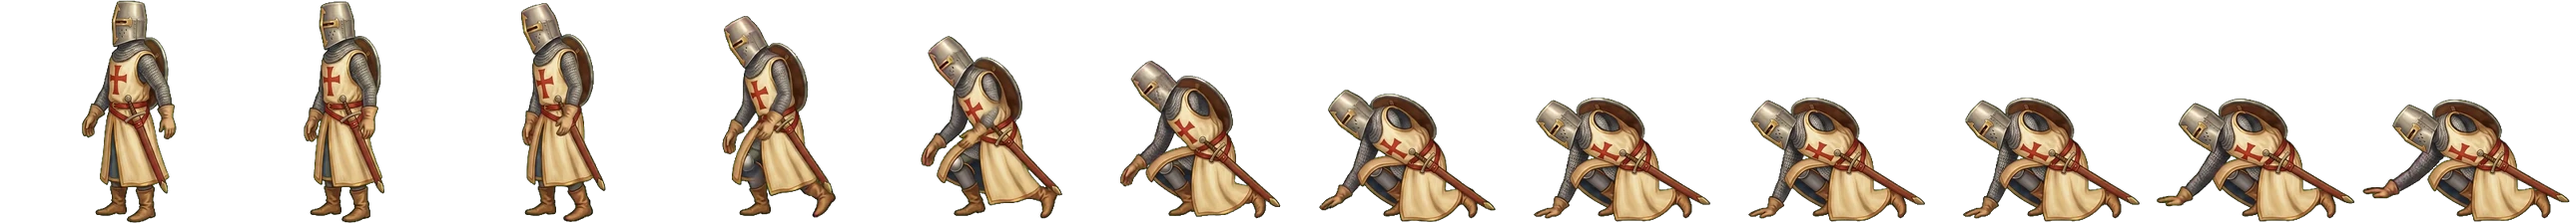
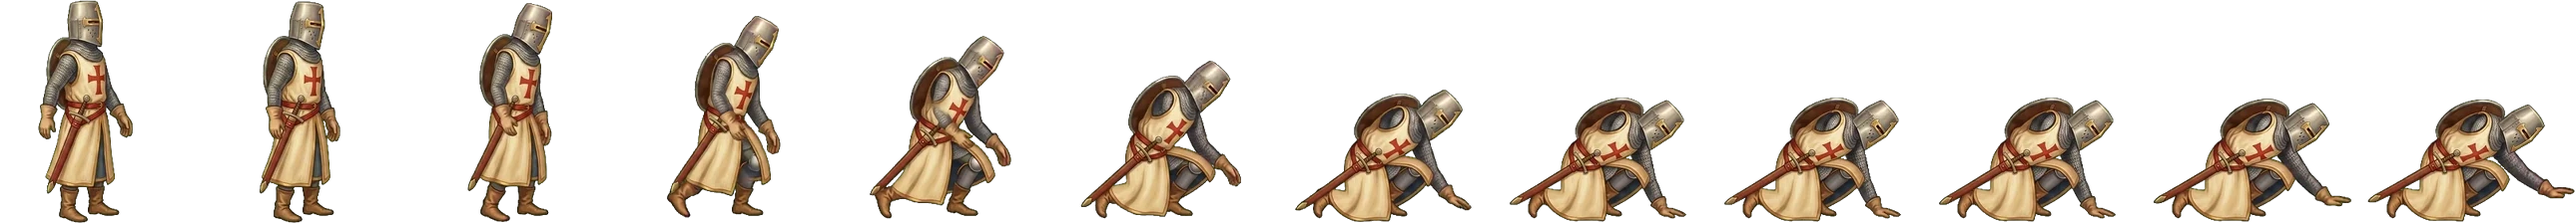
Mirror the knight's sheets: the art faced left
Every knight sheet came out of the base frame facing left (visor left,
shield at the right), while the runtime, like every other character's art,
assumes sheets face right and mirrors them to face left. So the knight
faced away from his direction of travel in both directions, which is what
read as a moonwalk; his feet were never the problem. tools/art/
mirror_sheets.py flips each cell of a character's sheets and moves the
origin; the knight's eight sheets are mirrored, the walk is recut in its
natural order (the earlier reverse cut was based on the wrong facing), and
the mirrored base frame is kept as knight/reference.png so future clips
start out facing right. The conventions say to judge stride direction only
on right-facing art.

Claude-Session: https://claude.ai/code/session_01WhnNSNbHDHPivHiJzsvQ8w

diff --git a/tools/art/mirror_sheets.py b/tools/art/mirror_sheets.py
@@ -1,0 +1,39 @@
+#!/usr/bin/env python3
+"""Mirror every animation sheet of a character horizontally, cell by cell.
+
+    python3 tools/art/mirror_sheets.py game/assets/characters/knight
+
+For art that came out facing left: the runtime assumes every sheet faces right and mirrors
+it for the other direction. Flips each frame cell of anim/*.webp (or .png) in place and
+moves the origin's x in the matching .json to the mirrored foot position.
+"""
+import json
+import pathlib
+import sys
+
+from PIL import Image, ImageOps
+
+
+def mirror(folder: pathlib.Path) -> None:
+    for meta_path in sorted((folder / "anim").glob("*.json")):
+        meta = json.loads(meta_path.read_text())
+        sheet_path = next((p for p in (meta_path.with_suffix(".webp"), meta_path.with_suffix(".png")) if p.exists()), None)
+        if sheet_path is None:
+            continue
+        sheet = Image.open(sheet_path).convert("RGBA")
+        width, height, columns = meta["width"], meta["height"], meta["columns"]
+        for index in range(meta["frames"]):
+            row, column = divmod(index, columns)
+            box = (column * width, row * height, (column + 1) * width, (row + 1) * height)
+            sheet.paste(ImageOps.mirror(sheet.crop(box)), box)
+        if sheet_path.suffix == ".webp":
+            sheet.save(sheet_path, "WEBP", quality=90, method=6)
+        else:
+            sheet.save(sheet_path, optimize=True)
+        meta["origin"] = [round(width - meta["origin"][0], 2), meta["origin"][1]]
+        meta_path.write_text(json.dumps(meta, indent=1))
+        print(f"mirrored {sheet_path.name}: origin x -> {meta['origin'][0]}")
+
+
+if __name__ == "__main__":
+    mirror(pathlib.Path(sys.argv[1]))

diff --git a/tools/art/CONVENTIONS.md b/tools/art/CONVENTIONS.md
@@ -93,6 +93,11 @@ rotated puppet parts (dangling cloth needs real frames). Recipe:
    background stays a flat solid bright green screen the whole time: no ground shadow, no other
    objects, no text, no watermark, no extra characters, no 3D or photorealistic look." followed by
    the action, "in place", and "The last frame returns to the exact starting pose." for loops.
+   The runtime assumes every sheet faces right and mirrors it to face left. The knight's base
+   frame came out facing left and every sheet cut from it had to be mirrored afterwards
+   (`mirror_sheets.py`, which flips each cell and moves the origin); new knight clips start
+   from `game/assets/characters/knight/reference.png`, the mirrored base, so they face right.
+   Look at a sheet's first frame before shipping it: visor and feet point right, shield at the back.
    Neither model takes a negative prompt; fold negatives into the prompt.
 4. `frames.py clip.mp4 frames/ --fps 24 --scale 0.4 --origin 640,660 --name <anim>` keys the
    green and writes 24 fps frames at a fixed 0.4 scale so every clip of a character shares one
@@ -103,10 +108,12 @@ rotated puppet parts (dangling cloth needs real frames). Recipe:
    `cycle.py --mode loop --fps 8 --max-frames 48 --min-period 5 --max-period 6.2`.
    Check every walk with `stride.py anim/walk.json` before shipping it: in a right-facing walk
    animated in place the planted foot must slide left (backward) from frame to frame, and its slide
-   speed should come close to the run speed the sheet is played at (175 world px/s for the knight);
+   speed should come close to the run speed the sheet is played at (150 world px/s for the knight);
    `PlayerVisual` scales playback by actual speed, but a clip whose feet barely move reads as a
-   moonwalk at any rate. Feet sliding right mean the model walked the character backwards: cut
-   the same frames with `cycle.py --reverse`. A tiny stride means a new clip.
+   moonwalk at any rate. Judge the direction only on art that faces right (mirror first if it does
+   not): the knight's "moonwalk" was his sheets facing left, not his feet. Feet that still slide
+   right on right-facing art mean the model walked the character backwards: cut the same frames
+   with `cycle.py --reverse`. A tiny stride means a new clip.
 5. `cycle.py frames/<anim>.json game/assets/characters/<name>/anim --mode loop|once --fps 12`
    picks one period (loop) or the motion segment (once), resamples to 12 fps, and writes
    `<anim>.png` (sheet) + `<anim>.json` (frames, columns, size, fps, loop, origin). Look at

diff --git a/CLAUDE.md b/CLAUDE.md
@@ -120,7 +120,8 @@ Environments) needs its deployment-branch rule to allow `claude/*`; only the own
 - The art pipeline lives in `tools/art/` and is documented in `tools/art/CONVENTIONS.md`: `gen.py`
   (Gemini stills, writes `ledger.csv` and enforces per-tag spend caps), `video.py` (clips from one
   base frame: Gemini Omni by default, Veo with `--model veo-...`), `frames.py` + `cycle.py` + `finalize_sheets.py` (green-screen keying, loop cutting,
-  WebP sheets), `stride.py` (moonwalk and stride-speed check for walks), `still_to_sheet.py` (one-frame idles), `cutout.py` / `split.py` (props, icons),
+  WebP sheets), `stride.py` (moonwalk and stride-speed check for walks), `mirror_sheets.py` (for art that
+  came out facing left: sheets must face right), `still_to_sheet.py` (one-frame idles), `cutout.py` / `split.py` (props, icons),
   `to_webp.py` (still art for shipping). Omni bills per token (about $0.10 per second of 720p clip; 360p
   is a third of that) and had no daily cap in use so far. Veo on a Tier 1 project is capped at about 10
   clips per model per day: HTTP 429 RESOURCE_EXHAUSTED means wait for the reset at midnight Pacific.
